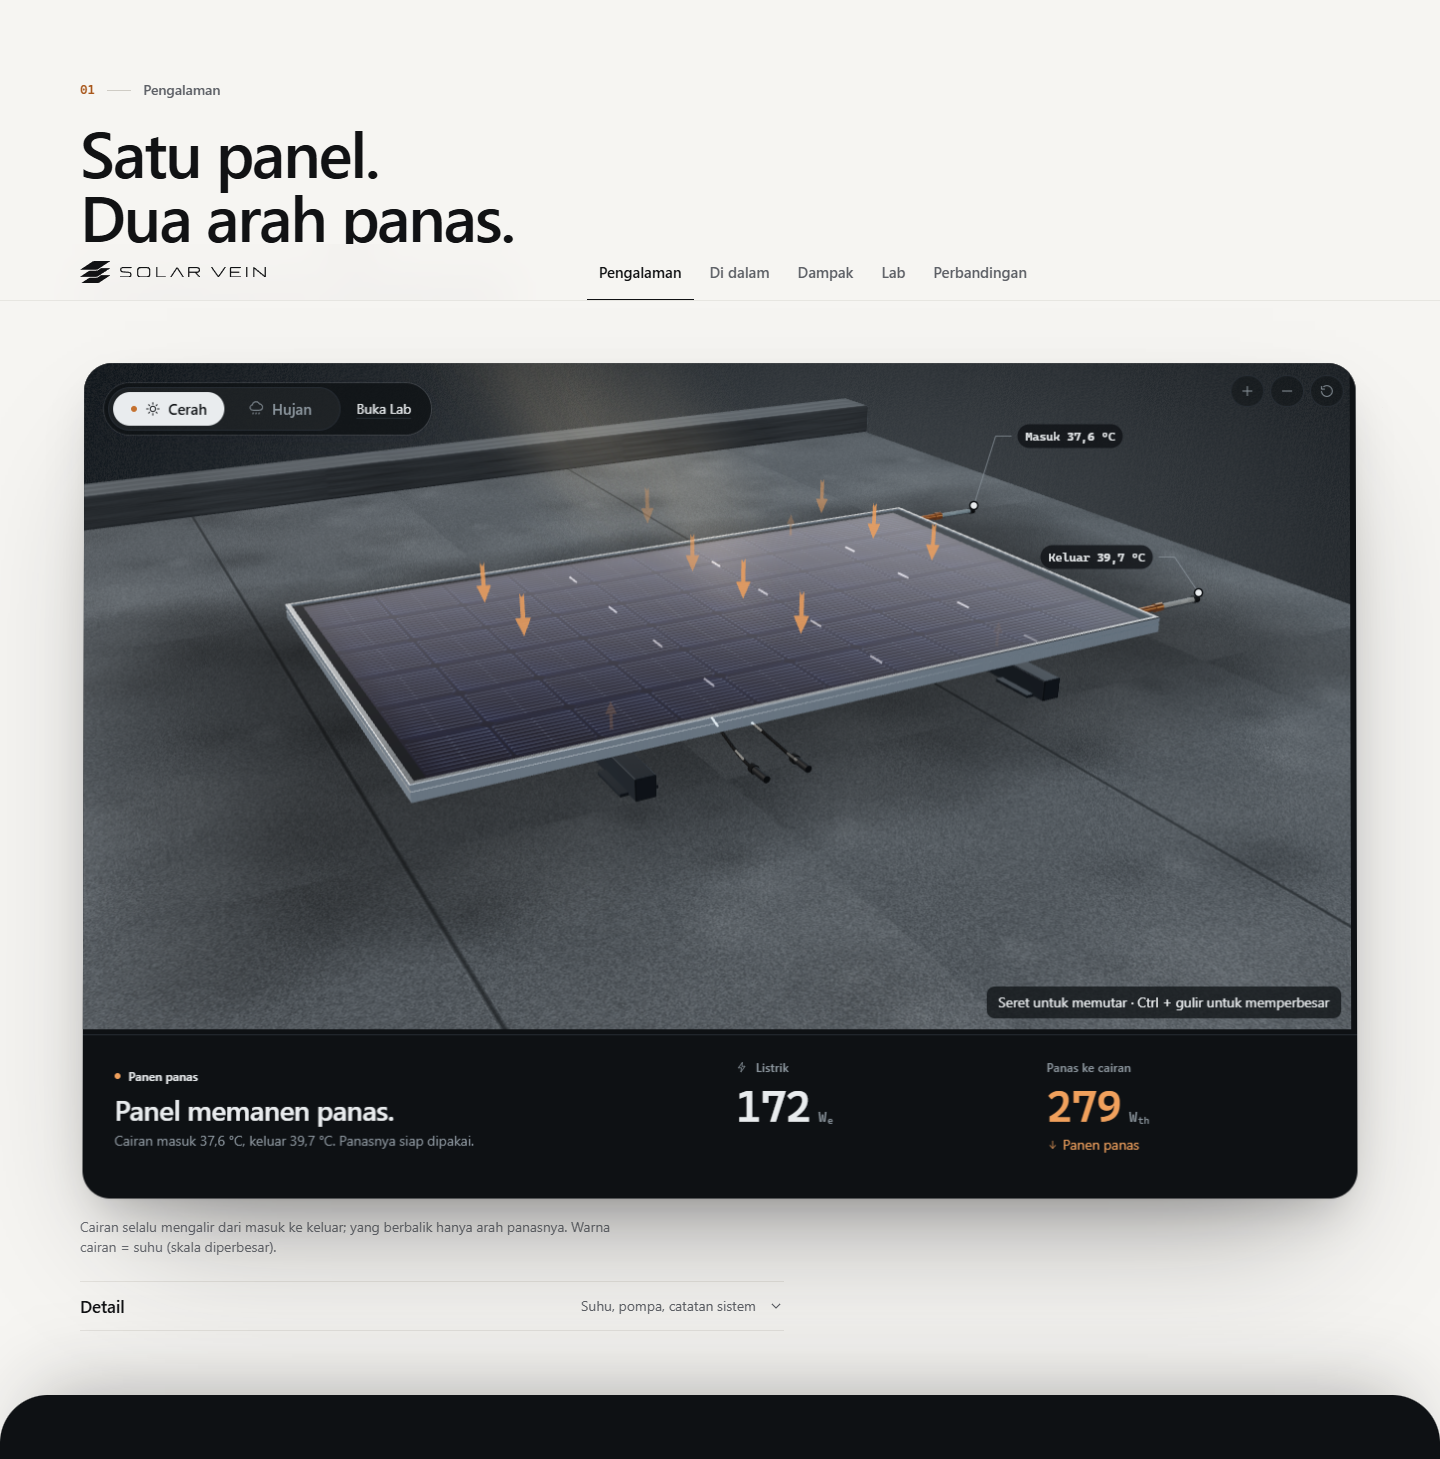
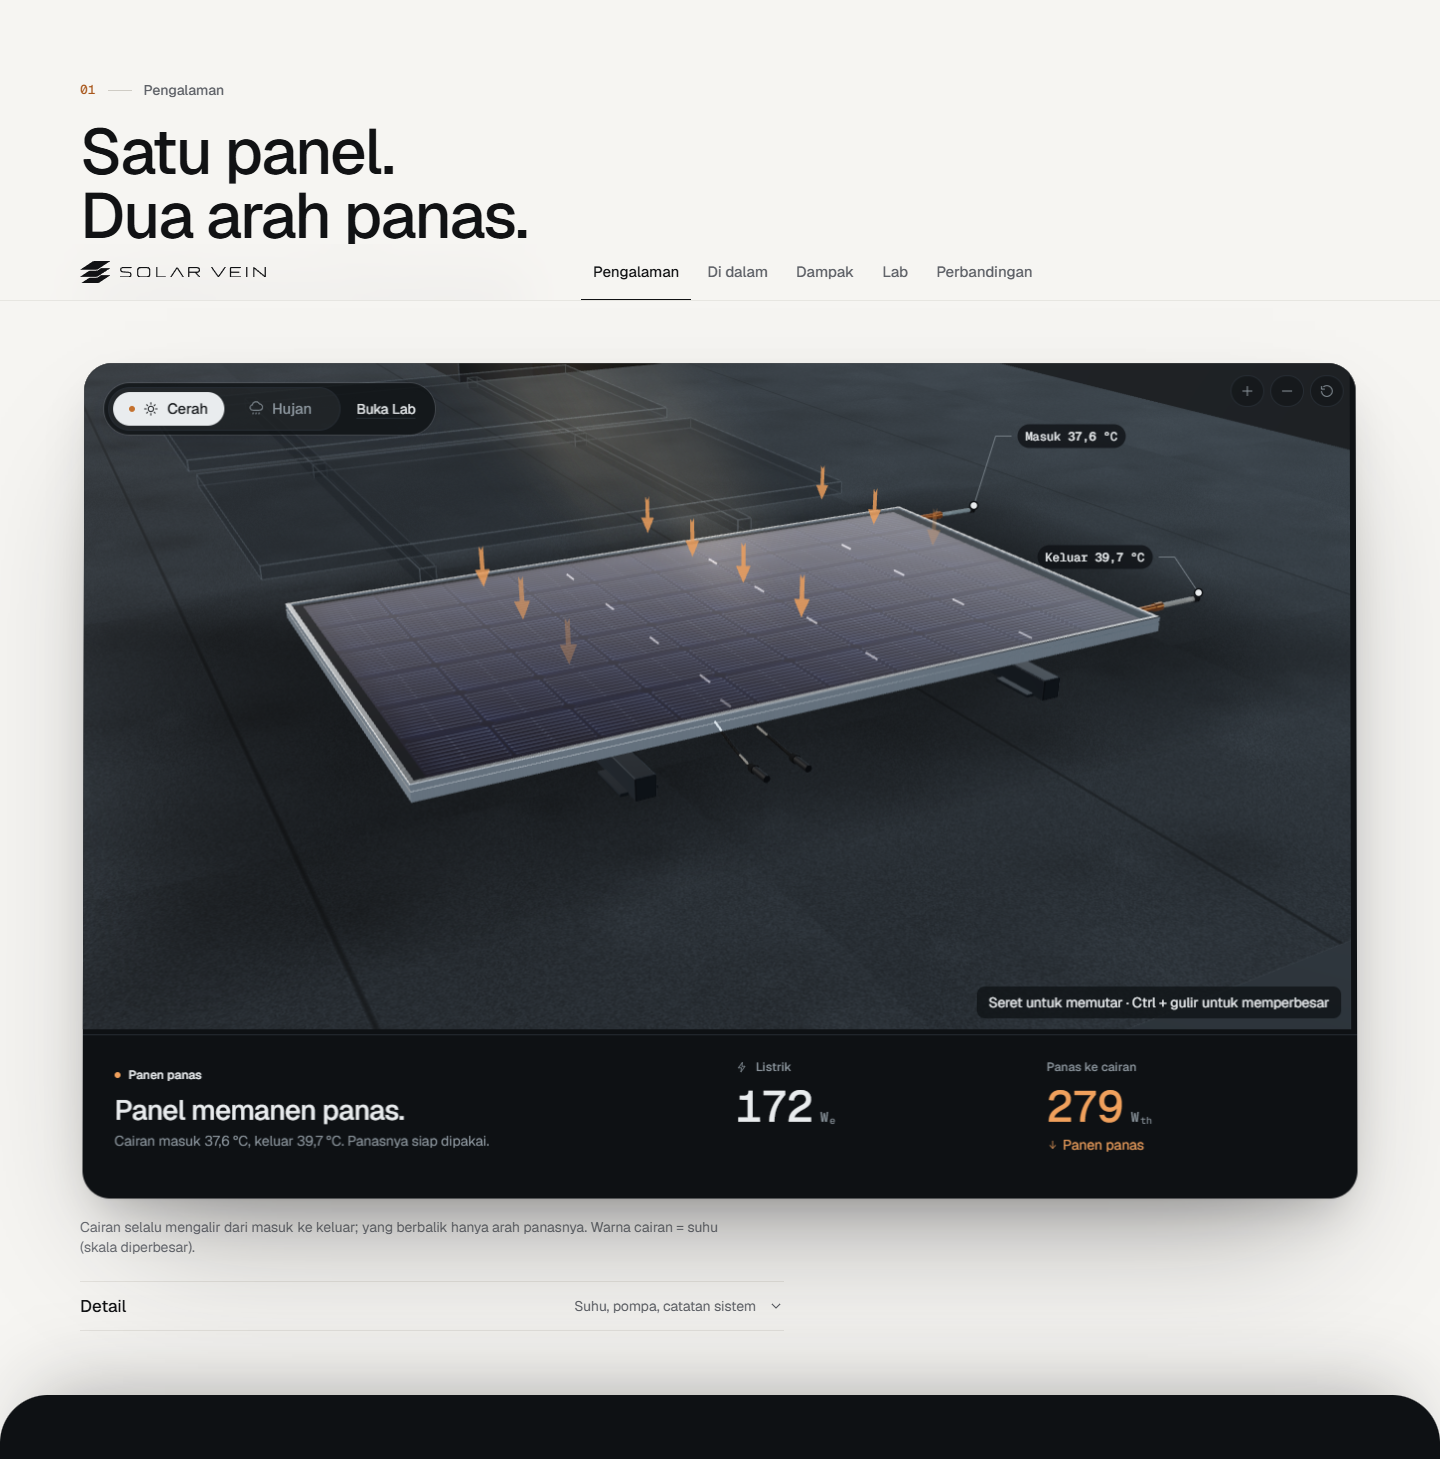
feat(motion): WeatherSky isolation fix, MOTION-v2 docs, sky evidence

diff --git a/src/motion/WeatherSky.tsx b/src/motion/WeatherSky.tsx
@@ -18,6 +18,14 @@ export function WeatherSky({ className }: { className?: string }) {
   const dawn = useRef<HTMLDivElement>(null);
   const sun = useRef<HTMLDivElement>(null);
   const night = useRef<HTMLDivElement>(null);
+  const root = useRef<HTMLDivElement>(null);
+
+  // The sky sits at a negative z-index; `body` paints its own paper background OVER negative layers of the root
+  // stacking context, so the host band must be an isolated stacking context for the sky to show.
+  useEffect(() => {
+    const host = root.current?.parentElement;
+    if (host && getComputedStyle(host).isolation !== 'isolate') host.style.isolation = 'isolate';
+  }, []);
 
   useEffect(() => {
     const apply = (f: VisualFrame): void => {
@@ -33,7 +41,7 @@ export function WeatherSky({ className }: { className?: string }) {
   }, []);
 
   return (
-    <div aria-hidden="true" className={className}>
+    <div ref={root} aria-hidden="true" className={className}>
       <div ref={rain} className="sky-rainy absolute inset-0" />
       <div ref={dawn} className="absolute inset-0 opacity-0" style={{ backgroundImage: DAWN_BG }} />
       <div ref={sun} className="sky-sunny absolute inset-0" />

diff --git a/docs/MOTION-v2.md b/docs/MOTION-v2.md
@@ -1,0 +1,67 @@
+# Motion v2: the visual clock follows the system store
+
+Code: `src/motion/systemEngine.ts` (engine), `systemTarget.ts` (target from the DayResult), `sky.ts` + `WeatherSky.tsx`,
+`hooks.ts`, `tokens.ts` (`SYSTEM_MOTION`), binding `src/state/systemEngineBinding.ts`, singleton `src/motion/engine.ts`.
+Tests: `systemEngine.test.ts`, `sky.test.ts`. v1 `weather.ts` stays for its tests only; nothing mounts it.
+
+## Data flow
+`useSystemStore` (sys, scenario, strategy, hour, modeTarget) -> `targetAt(sys, scenario, strategy, hour)` = cached
+`getSystemView(sys).day(...)` stepped with `stepAt` -> `SystemTarget { inputs, climate, hour, modules, router }` ->
+`weather.setTarget(target, { kind })`. The engine owns the VISUAL state and publishes one `VisualFrame` per step:
+
+| Field | Meaning |
+|---|---|
+| `inputs` | `{ ...sys.array.module, irradiance, ambientC, windMs, rainMmH, humidityRatio, inletC, pumpControl }` of this frame |
+| `result` | `simulate(inputs, 'pvt-liquid')` (about 0,02 ms), always a real computed state |
+| `climate` | `ClimatePoint` at the visual clock (new object per frame) |
+| `hour`, `hourOfDay` | scenario hour (continuous, sweeps during a transition) and hour mod 24 |
+| `router` | `RouterSnapshot` (mode, pumpOn, valves, allocW, tankSoc, tankTopC, reason; new object per frame) |
+| `progress`, `moving`, `epoch` | script progress, any spring running, bumped on every published frame (climate and hour included) |
+
+## Change kinds (`classifyChange` in the binding)
+- scripted (~1,1 s): a mode target A/B/C chosen, or scenario / strategy changed.
+- follow: hour scrubbing (store sets `modeTarget: 'custom'`) and system edits. All goals at once, w = 22.
+- snap: first load, `prefers-reduced-motion`, hidden tab (engine checks at every target change; `visibilitychange` snaps).
+
+## Scripted timeline (T = 1,1 s, `SYSTEM_MOTION`)
+Everything is a critically damped spring (no overshoot, velocity kept on retarget); a script only decides WHEN a group's
+goal is applied. Retargeting mid-flight restarts the script from the CURRENT visual state, so it is continuous.
+
+| Group | Applied at | Settles |
+|---|---|---|
+| climate: G, ambient, RH, wind, rain, clock hour, inlet T, tank SoC / top T (w 9,7) | 0 | 0 - 0,55 T |
+| router rule, reason, mode, pump command | 0,45 T (window 0,35 - 0,6 T) | switch |
+| valves: 4 fractions, w 8,8, rate limit 3 /s | 0,40 T | 0,4 - 1,0 T |
+| collected heat Q (scales allocW) | with the climate; a pump START waits for the switch | with the climate |
+
+Real valve actuators take tens of seconds; the stroke is compressed about 30x so the router reads as one gesture.
+Valves are renormalised so that Σ = 1 whenever the pump is on; with the pump off they close (`open` spring, w 12) and
+`allocW` = 0. `allocW_i = valves_i x Q`, and while moving `Q <= modules x max(0, q_liquid)` of the visual collector,
+so heat never exceeds what the computed collector delivers. A pump command with q <= 0 is shown as a stopped collector
+(sim `pumpOn` false) while moving; the 'pvt-liquid' collector never rejects heat, so no zero-crossing logic is needed.
+Whole frame idle about 1,4 s after the click (spring tails); the sky is done by ~0,6 s.
+
+## Sky (`sky.ts`)
+Four layers (opacity only, DOM-direct, no React render): `rain` (sky-rainy tokens: overcast, rain, night base), `dawn`
+(sky-sunny stops reversed: sunrise / sunset glow), `sun` (sky-sunny, follows G thinned by humidity), `night` (ink veil <= 7 %).
+Time of day from `hourOfDay`, condition from G, rain, RH. `WeatherSky` isolates its host band (`isolation: isolate`)
+because `body` paints paper over negative z-index layers.
+
+## API for views
+```ts
+import { weather, useVisualFrameRef, useVisualSelect, useLiveText, useLiveFrameText, useFrameListener,
+         useRouterFrameRef, useClimateFrameRef, useLiveClimate, useLiveRouter } from '../motion';
+weather.frame().router!.valves          // inside useFrame / rAF: zero hooks, zero renders
+useRouterFrameRef().current.pumpOn      // live getter, no subscription
+useFrameListener((f) => { el.style.setProperty('--v', String(f.router!.valves.tank)); });   // imperative DOM, hz 0 = every step
+useLiveClimate((c, h) => Math.round(c.irradiance), 15)    // React state, <= 15 Hz, only on change
+useLiveRouter((r) => r.mode)
+useLiveFrameText(ref, (f) => clockLabel(f.hourOfDay ?? 0))   // textContent, no render
+```
+`frame.router` / `frame.climate` are fresh immutable objects each step: never mutate them; compare by value.
+Dev only: `window.__sv` = `{ engine, store, frame(), setModeTarget('A'|'B'|'C'), setScenario, setStrategy, setHour }`.
+
+## Known limits
+- Hour scrubbing across router hysteresis (terik 13 - 16 h: on / off / on / off) flips the pump visibly; that is the computed day.
+- Modes B and C both have the pump off (valves closed); they differ in reason, G and tank state, not in valve position.
+- A pump start waits ~0,5 s into a transition while the sky is already open (the router decision is the visible event).

diff --git a/MOTION_SYSTEM.md b/MOTION_SYSTEM.md
@@ -4,6 +4,8 @@ Code: `src/motion/**` (engine, tokens, hooks), `src/viz3d/effects/**` (3D effect
 and `src/sections/hero/**`. Evidence and the original defect list: `docs/audit/06-motion.md`, transition frames and numbers
 in `docs/audit/motion/`. Physics (`src/sim/**`) is untouched. Copy follows `docs/audit/07-creative-direction-v2.md`.
 
+> v2 (Wave 2): the visual clock now follows the v2 system store; see `docs/MOTION-v2.md`. Sections 3-5 describe the v1 Cerah/Hujan engine (`weather.ts`, kept for its tests until the cutover).
+
 ## 1. Principles
 One clock for 3D, numbers, text and page sky. Every frame is a real computed state (`simulate()` on interpolated inputs).
 The model decides direction, never a mode flag. Continuity and object identity (same scene, same camera, same panel on every
